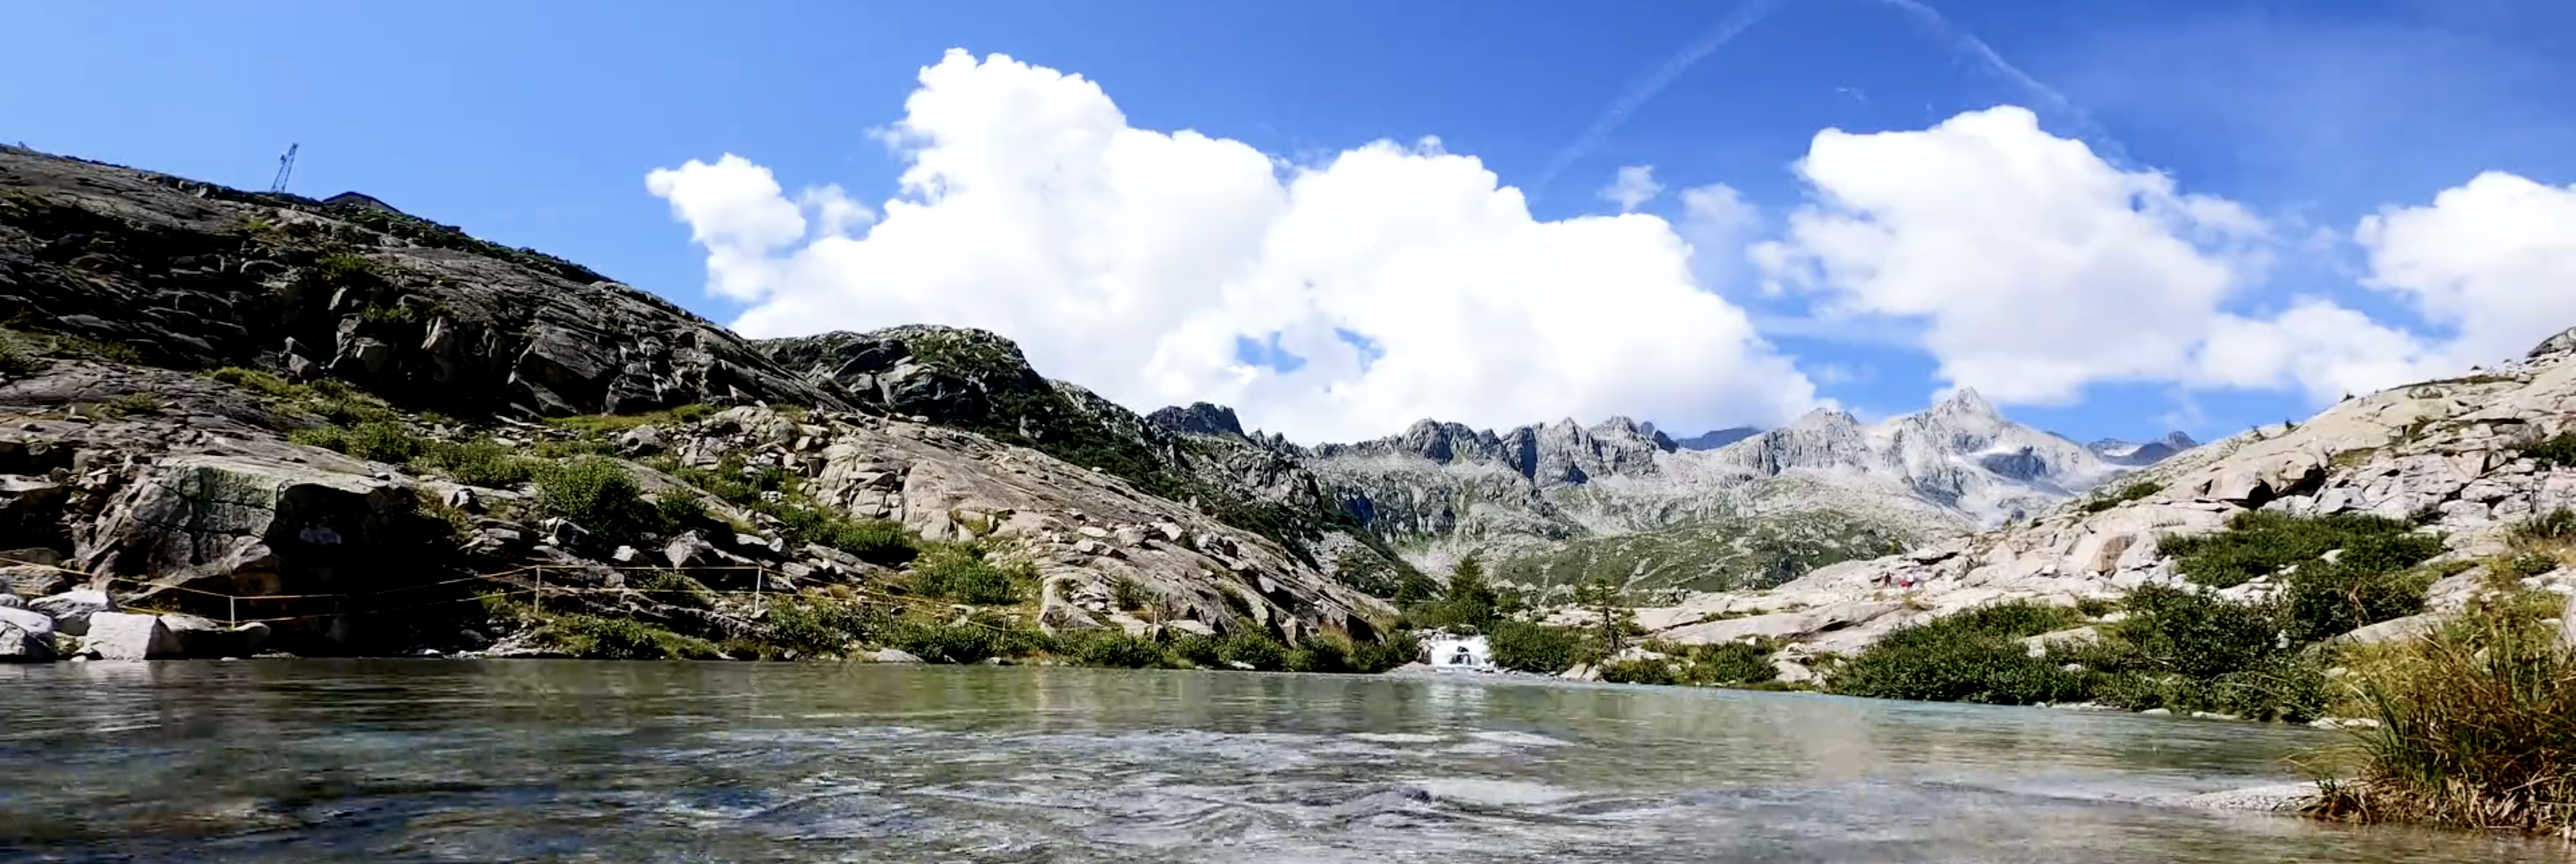
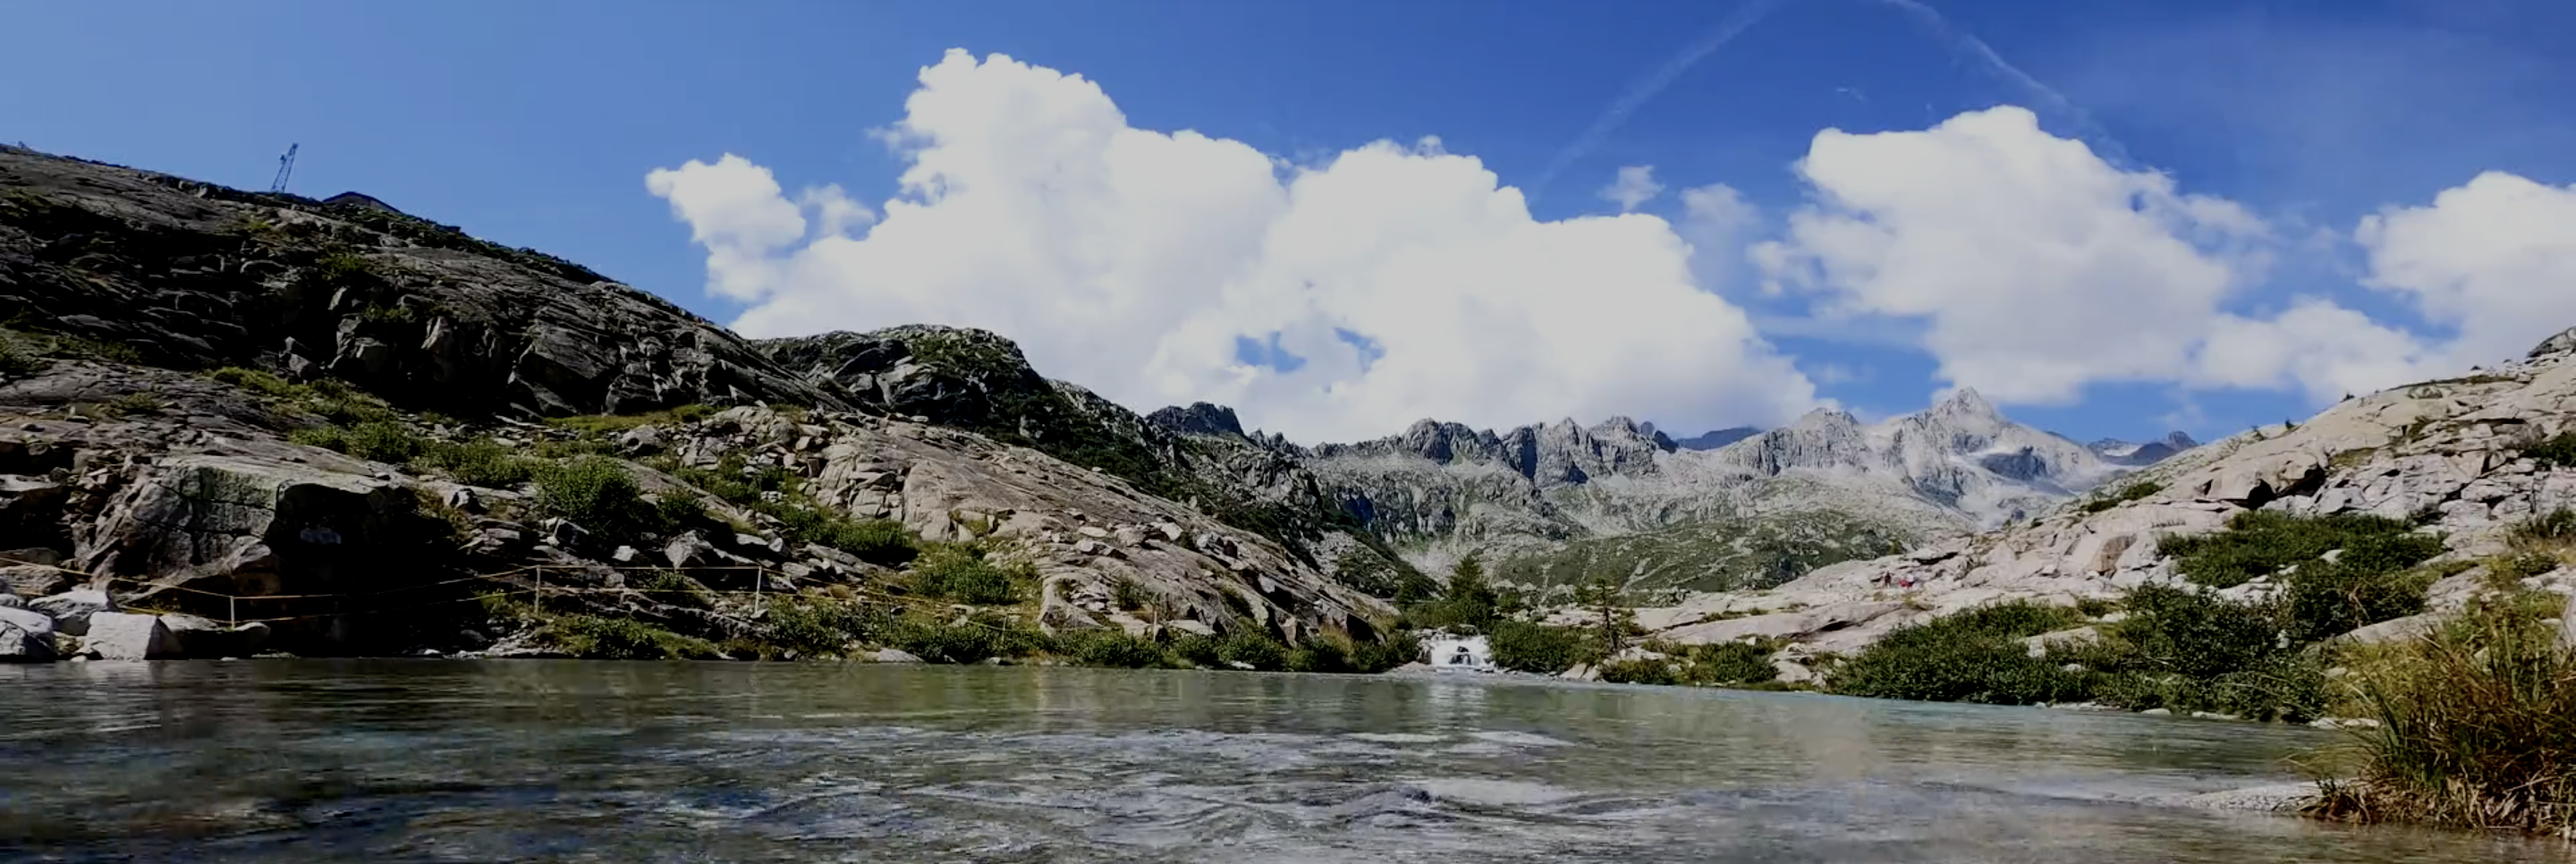
Updated Styling & Fixed Search

diff --git a/src/components/Body.js b/src/components/Body.js
@@ -23,6 +23,7 @@ function Body() {
                 <div className="parkList">
                         <div>
                              <input type="text" placeholder="Search for..." onChange={(e) => setSearchTerm(e.target.value)} value={searchTerm}/>
+                             {/* eslint-disable-next-line array-callback-return */}
                              {parklist.data.filter((val)=>{
                                  if(searchTerm===""){
                                      return (
@@ -36,10 +37,6 @@ function Body() {
                                                 {val.fullName}
                                             </div> 
                                         )
-                                 } else {
-                                     return(
-                                         <div> </div>
-                                     )
                                  }
                              }).map((parks,key)=>{
                                  return(

diff --git a/src/components/Home.js b/src/components/Home.js
@@ -1,13 +1,23 @@
-import React, { PureComponent } from 'react'
+import React, { PureComponent } from "react";
+import "./Home.css";
 
 export class Home extends PureComponent {
-    render() {
-        return (
-            <div>
-                <p>This is my C1 summit challenge website :) I worked very very hard on this to bring it to you today!</p>
-            </div>
-        )
-    }
+  render() {
+    return (
+      <div
+        style={{
+          backgroundImage: "url('/park.png')",
+          width: "100%",
+          paddingTop: '15rem',
+          paddingBottom: '15rem',
+          color: 'white',
+          backdropFilter: 'brightness(150%)'
+        }}
+      >
+        <h1>Hello, where would you like to go today?</h1>
+      </div>
+    );
+  }
 }
 
-export default Home
+export default Home;

diff --git a/src/components/Footer.js b/src/components/Footer.js
@@ -5,7 +5,7 @@ export class Footer extends PureComponent {
     render() {
         return (
             <div className="Footer">
-                <a href="http://ngandhi.me">This is my Captial One Summit Challenge. All-Rights Reserved - Neal Gandhi ~2021.</a>
+                <a className="footerText" href="http://ngandhi.me">This is my Captial One Summit Challenge. All-Rights Reserved - Neal Gandhi ~2021.</a>
             </div>
         )
     }

diff --git a/src/components/Footer.css b/src/components/Footer.css
@@ -2,7 +2,15 @@
     bottom: 0;
     width: 100%;
     color:white;
-    background-color: rgba(16, 45, 214, 0.644);
+    background-color: rgb(2, 70, 2);
     padding: 5px;
     text-decoration: none;
+}
+
+.footerText{
+    text-decoration: none;
+    color: white;
+}
+.footerText:hover{
+    color:rgb(0, 153, 255);
 }

diff --git a/src/components/Navbar/Navbar.css b/src/components/Navbar/Navbar.css
@@ -1,5 +1,5 @@
 .Navbar{
-    background-color: rgba(16, 45, 214, 0.643);
+    background-color: rgb(2, 70, 2);
     height: 80px;
     display: flex;
     justify-content: center;
@@ -47,5 +47,5 @@
     color: white;
 }
 .nav-links:hover {
-    color: rgb(236, 140, 185);
+    color:rgb(0, 153, 255);
 }

diff --git a/src/components/Home.css b/src/components/Home.css
@@ -1,0 +1,7 @@
+.home{
+    background-image: "url('/park.png')";
+    width: "100%";
+    padding-top: '15rem';
+    padding-bottom: '15rem';
+    color: 'white';
+}
